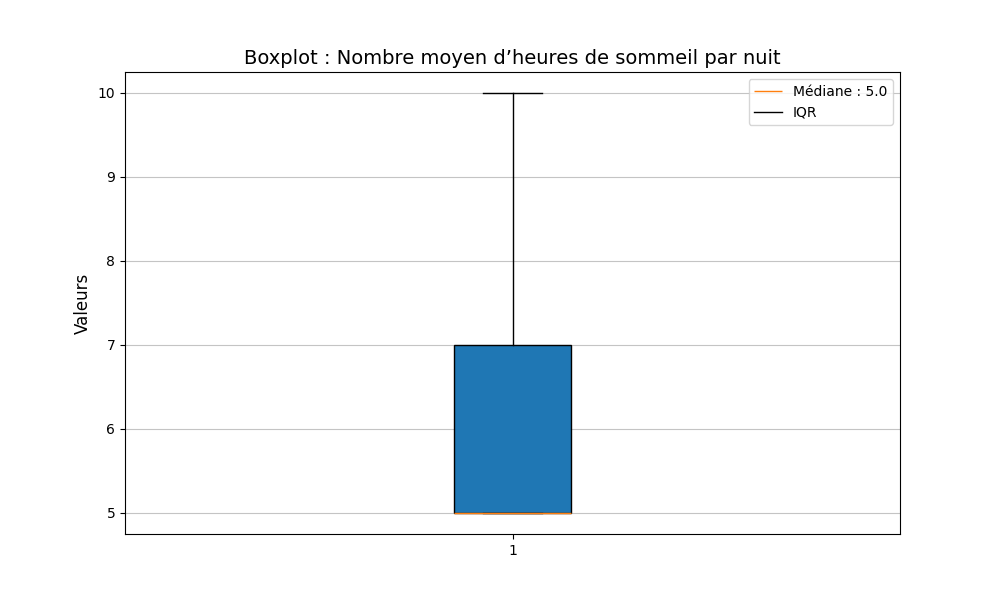
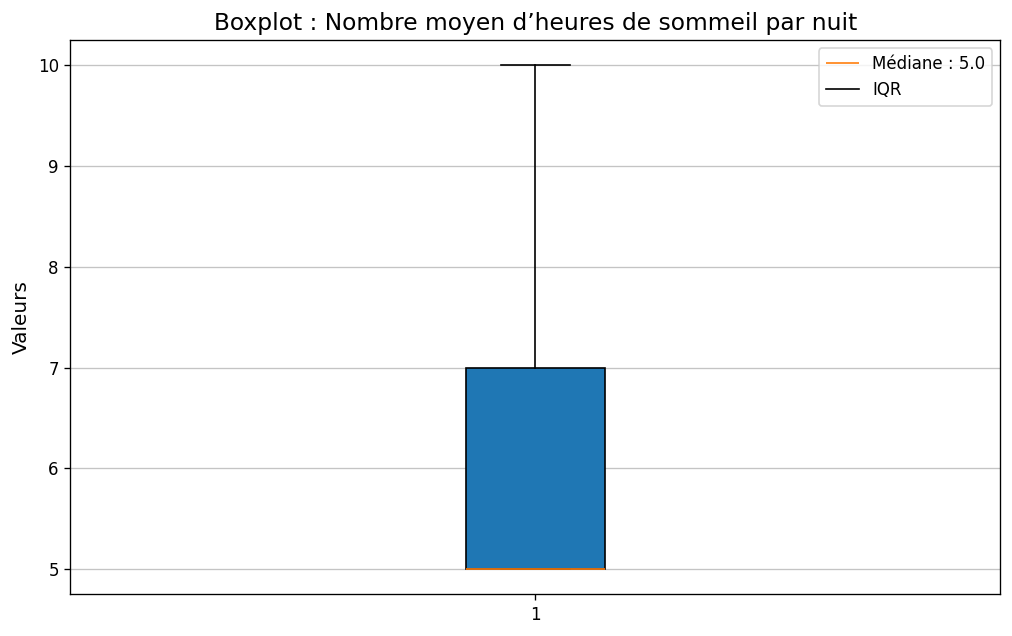
refactor: tighten and improve visual

diff --git a/analysis.py b/analysis.py
@@ -145,7 +145,7 @@ class DataManager:
             [f"Médiane : {median}", "IQR"],
         )
 
-        plt.savefig(filename)
+        plt.savefig(filename, dpi=120, bbox_inches='tight')
 
         data.add_heading(f"{self.name["default"]} [{self.name["format"]}]", level=4)
         data.add_block(mkdn.Paragraph([mkdn.Inline("", image=f"../{filename}")]))
@@ -364,7 +364,7 @@ class DataManager:
                 plt.title(f"Histogramme avec une courbe de distribution normale")
                 plt.xlabel(dict.name["default"])
                 plt.ylabel("Probabilité de densité")
-                plt.savefig(filename)
+                plt.savefig(filename, dpi=120, bbox_inches='tight')
 
                 stats.add_block(mkdn.Quote(message))
                 stats.add_block(mkdn.Paragraph([mkdn.Inline("", image=f"../{filename}")]))
@@ -501,7 +501,7 @@ class DataManager:
             fig.legend(wedges, labels, loc="upper right")
             plt.setp(autotexts, size=12, weight="bold")
             plt.title(store.name["default"])
-            plt.savefig(f"{ASSETS_DIR_NAME}/pie_{store.name["format"]}.png")
+            plt.savefig(f"{ASSETS_DIR_NAME}/pie_{store.name["format"]}.png", dpi=120, bbox_inches='tight')
 
         elif store.name["format"] == "QDS":
             from matplotlib.colors import LinearSegmentedColormap, BoundaryNorm
